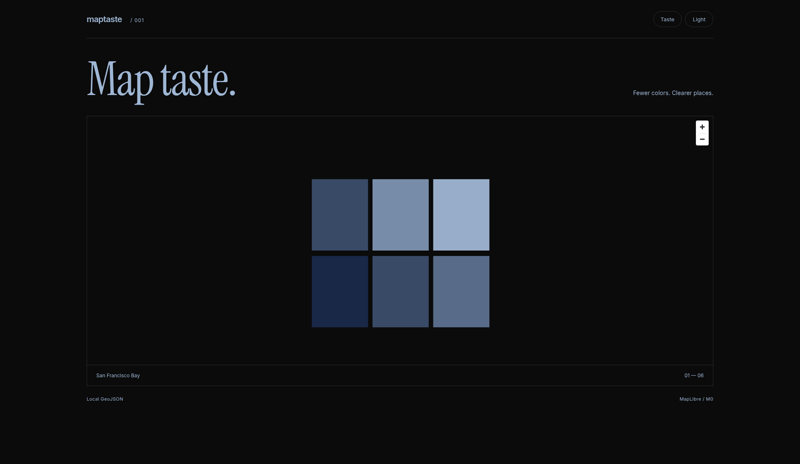
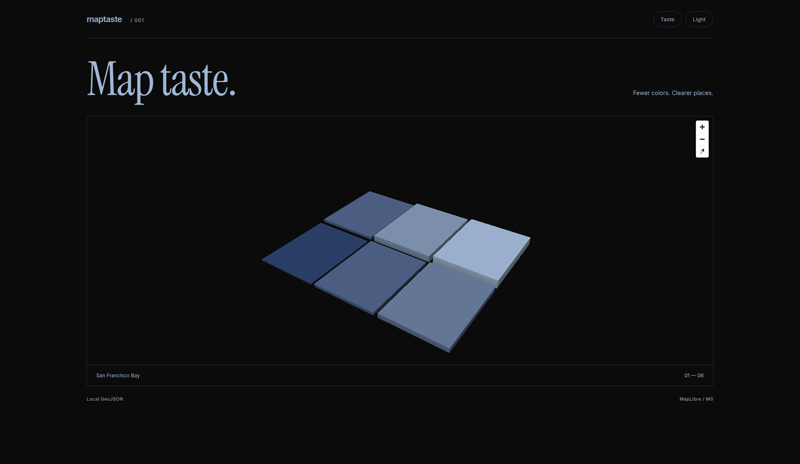
Upgrade showcase to 3D extruded MapLibre demo
Pitch the camera, use fill-extrusion heights, preserve view across
Taste/Harsh and Light/Dark, and refresh docs/demo.gif plus stills.

Changed region(s): [[0.3125, 0.3621, 0.6875, 0.7543], [0.8438, 0.3017, 0.9062, 0.3319]]

diff --git a/showcase/src/main.ts b/showcase/src/main.ts
@@ -7,18 +7,25 @@ const cells = [
 ];
 function style(dark: boolean, harsh: boolean): StyleSpecification {
  return {version:8,metadata:{'maptaste:themes':['light','dark']},sources:{districts:{type:'geojson',data:{type:'FeatureCollection',features:cells.map(([x,y,value])=>({type:'Feature',properties:{value},geometry:{type:'Polygon',coordinates:[[[x,y],[x+0.047,y],[x+0.047,y+0.047],[x,y+0.047],[x,y]]]}}))}}},layers:[
- {id:'paper',type:'background',paint:{'background-color':dark?'#0b0b0b':'#ebe7df'}},
- {id:'districts',type:'fill',source:'districts',paint:{'fill-color':harsh?['match',['get','value'],0,'#ff2020',1,'#ffff00',2,'#00ee30',3,'#0055ff','#ee00ee']:['interpolate',['linear'],['get','value'],0,dark?'#1a2a4a':'#dce6f2',4,dark?'#9eb6d4':'#1a2a4a'],'fill-opacity':0.95}},
- {id:'boundaries',type:'line',source:'districts',paint:{'line-color':dark?'#0b0b0b':'#ebe7df','line-width':2}}
+ {id:'paper',type:'background',paint:{'background-color':dark?'#0b0b0b':'#ddd9d1'}},
+ {id:'districts',type:'fill-extrusion',source:'districts',paint:{'fill-extrusion-color':harsh?['match',['get','value'],0,'#ff2020',1,'#ffff00',2,'#00ee30',3,'#0055ff','#ee00ee']:['interpolate',['linear'],['get','value'],0,dark?'#1a2a4a':'#dce6f2',4,dark?'#9eb6d4':'#1a2a4a'],'fill-extrusion-height':['+',['*',['get','value'],120],80],'fill-extrusion-base':0,'fill-extrusion-opacity':0.92}}
  ]};
 }
-const map=new maplibregl.Map({container:'map',style:style(false,false),center:[-122.437,37.75],zoom:11,pitch:0,attributionControl:false});
-map.addControl(new maplibregl.NavigationControl({showCompass:false}),'top-right');
+const map=new maplibregl.Map({container:'map',style:style(false,false),center:[-122.437,37.75],zoom:11.2,pitch:55,bearing:-34,dragRotate:true,touchPitch:true,attributionControl:false});
+map.addControl(new maplibregl.NavigationControl({showCompass:true}),'top-right');
 let dark=false;
 let harsh=false;
+function updateStyle() {
+ const pitch=map.getPitch();
+ const bearing=map.getBearing();
+ const zoom=map.getZoom();
+ const center=map.getCenter();
+ map.once('style.load',()=>{map.jumpTo({center,zoom,pitch,bearing});});
+ map.setStyle(style(dark,harsh));
+}
 const button=document.querySelector<HTMLButtonElement>('#theme')!;
-button.addEventListener('click',()=>{dark=!dark;document.documentElement.dataset.theme=dark?'dark':'light';button.textContent=dark?'Light':'Dark';button.setAttribute('aria-label',dark?'Light theme':'Dark theme');button.setAttribute('aria-pressed',String(dark));map.setStyle(style(dark,harsh));});
+button.addEventListener('click',()=>{dark=!dark;document.documentElement.dataset.theme=dark?'dark':'light';button.textContent=dark?'Light':'Dark';button.setAttribute('aria-label',dark?'Light theme':'Dark theme');button.setAttribute('aria-pressed',String(dark));updateStyle();});
 map.on('error',()=>{document.querySelector('.map-caption span')!.textContent='Map unavailable — WebGL required';});
 
 const paletteButton=document.querySelector<HTMLButtonElement>('#palette')!;
-paletteButton.addEventListener('click',()=>{harsh=!harsh;paletteButton.textContent=harsh?'Harsh':'Taste';paletteButton.setAttribute('aria-pressed',String(harsh));document.querySelector('#palette-caption')!.textContent=harsh?'MT001':'01 — 06';map.setStyle(style(dark,harsh));});
+paletteButton.addEventListener('click',()=>{harsh=!harsh;paletteButton.textContent=harsh?'Harsh':'Taste';paletteButton.setAttribute('aria-pressed',String(harsh));document.querySelector('#palette-caption')!.textContent=harsh?'MT001':'01 — 06';updateStyle();});

diff --git a/README.md b/README.md
@@ -10,7 +10,7 @@ Agents ship ugly MapLibre styles: rainbow fills, faint labels, crowded names, an
 
 ![Maptaste demo](docs/demo.gif)
 
-From rainbow noise to sequential blues — Taste / Harsh and Light / Dark.
+3D extruded cells: rainbow noise → sequential blues — Taste / Harsh and Light / Dark.
 
 | Harsh (MT001) | Taste | Dark |
 | --- | --- | --- |
@@ -72,7 +72,7 @@ Load `skills/maptaste-global/SKILL.md` or `skills/maptaste-cn/SKILL.md` in your 
 
 ## Showcase
 
-A standalone Vite app with local GeoJSON, a Taste/Harsh palette toggle, and light/dark themes. No map token or tile service required; WebGL is required. Google Fonts supplies the single serif headline, with a local serif fallback.
+A standalone Vite app with local GeoJSON, MapLibre fill-extrusion (pitch ~55°), a Taste/Harsh palette toggle, and light/dark themes. No map token or tile service required; WebGL is required. Google Fonts supplies the single serif headline, with a local serif fallback.
 
 ```sh
 cd showcase
